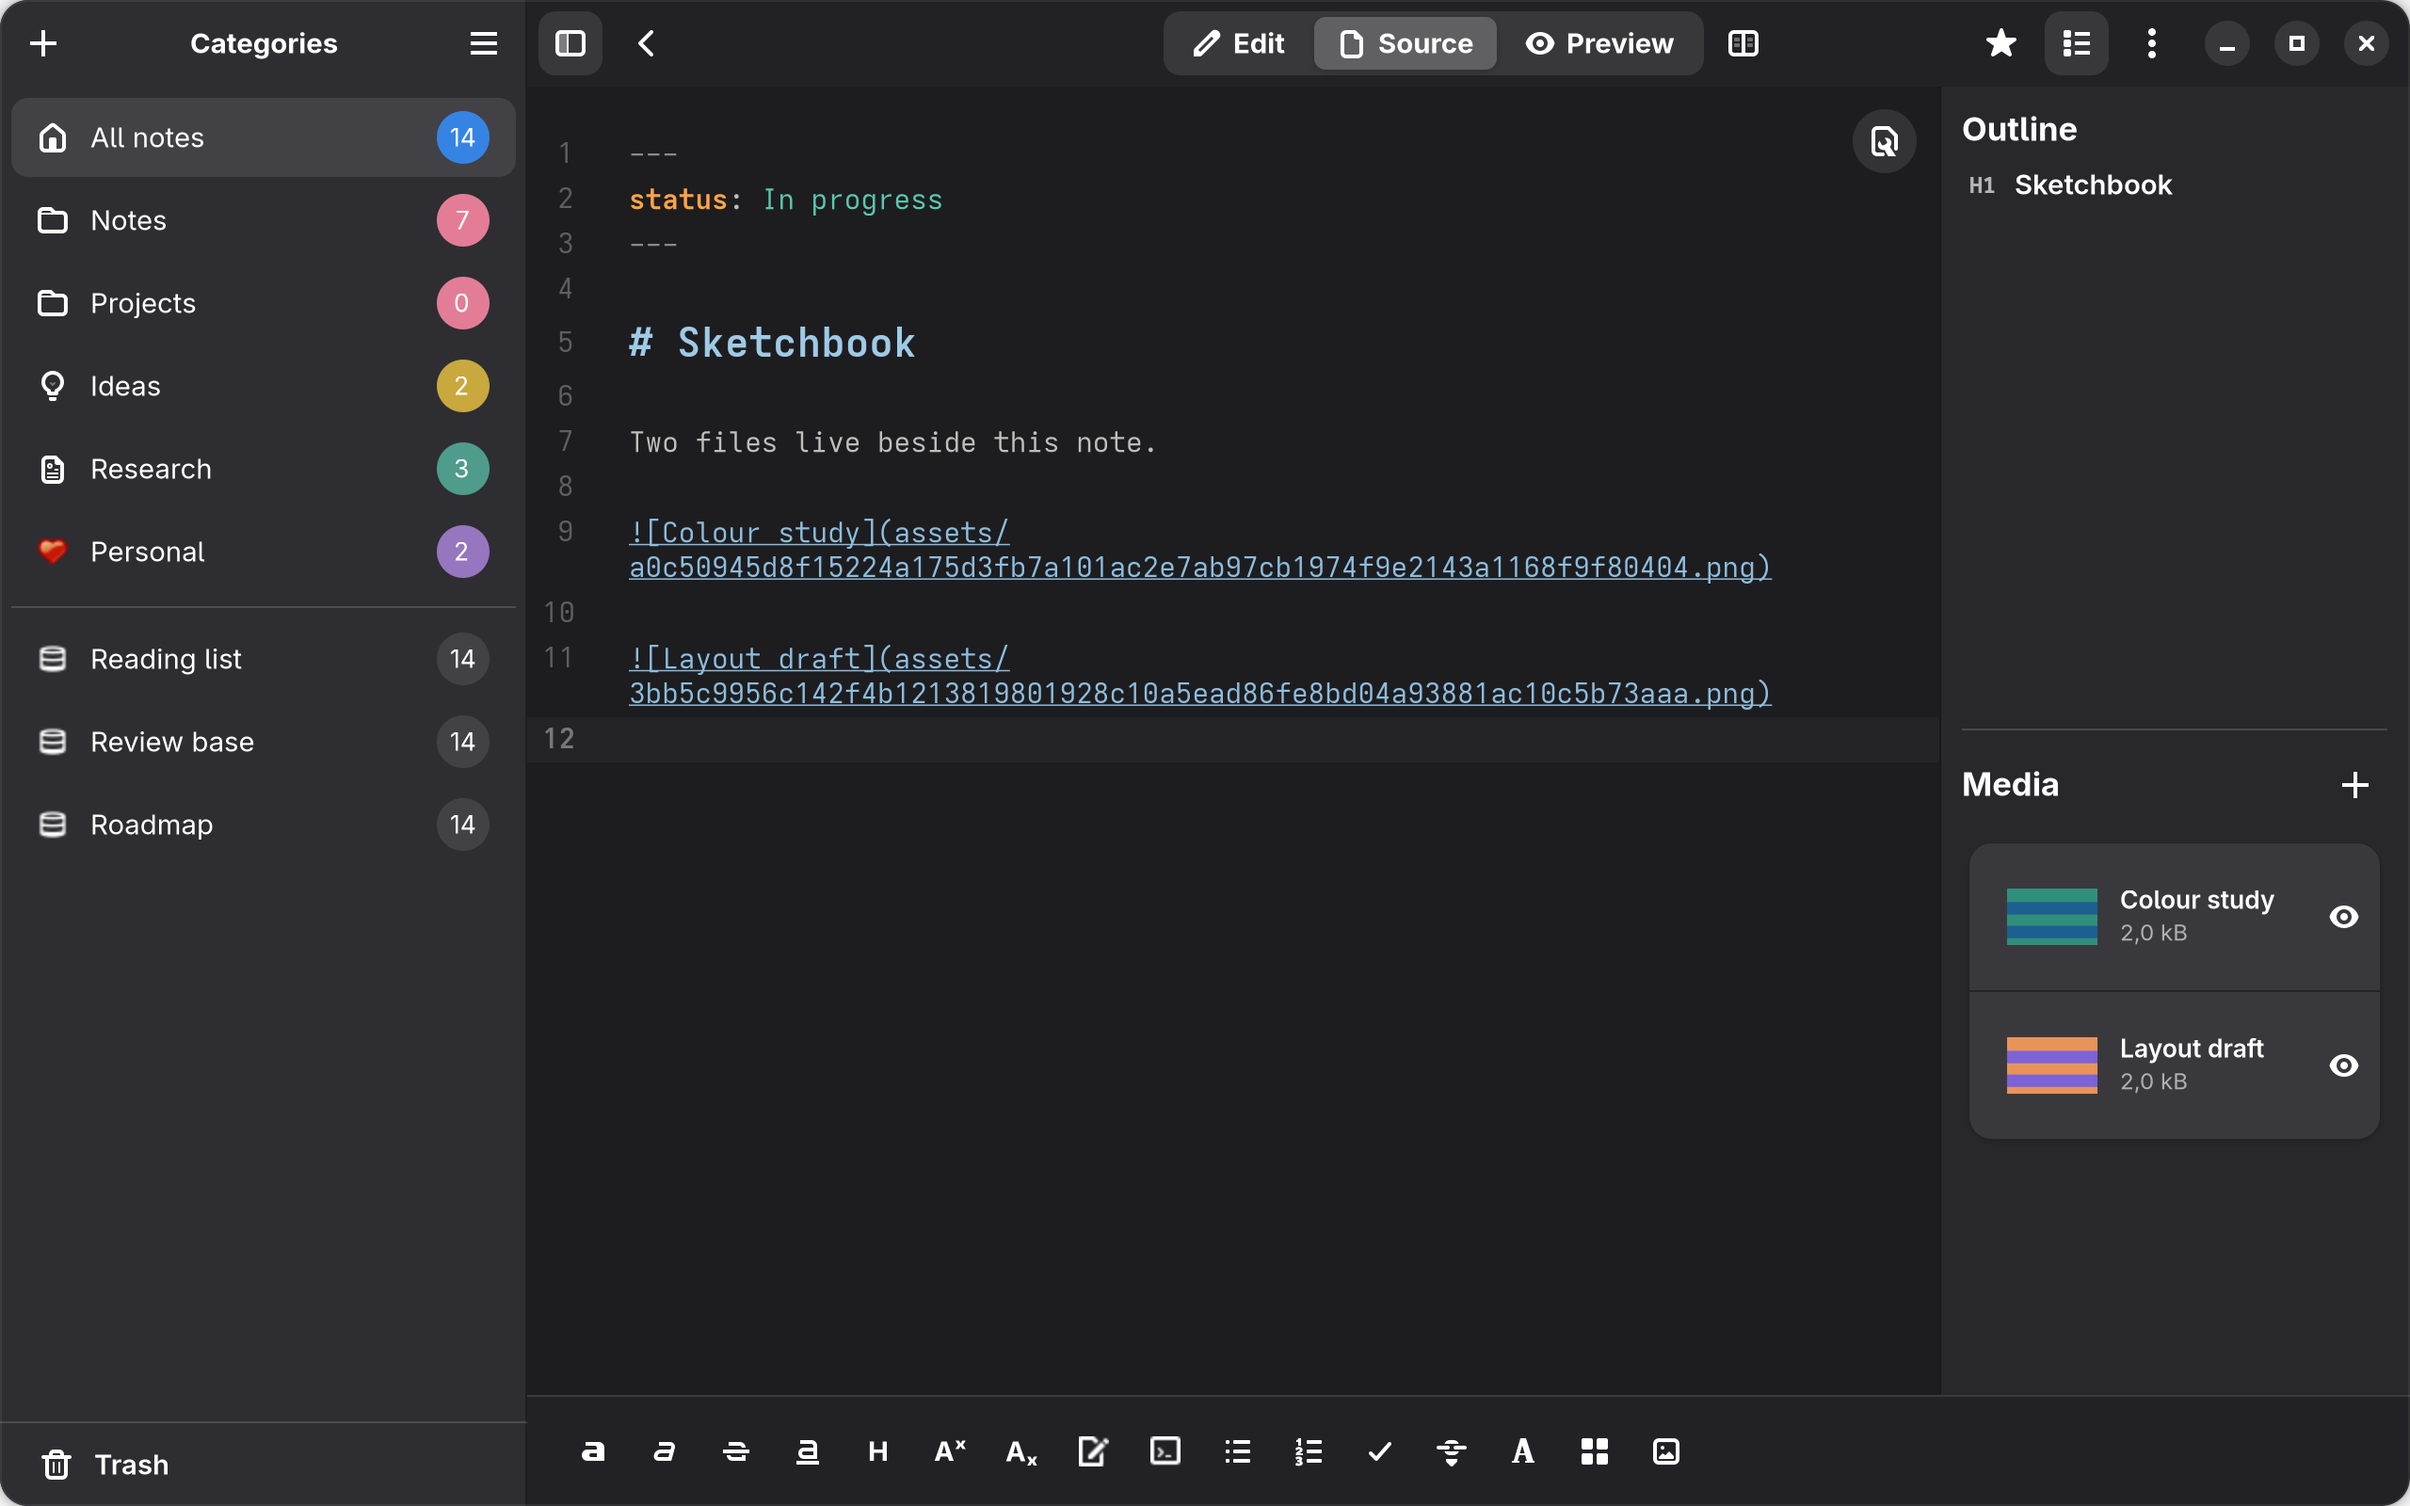
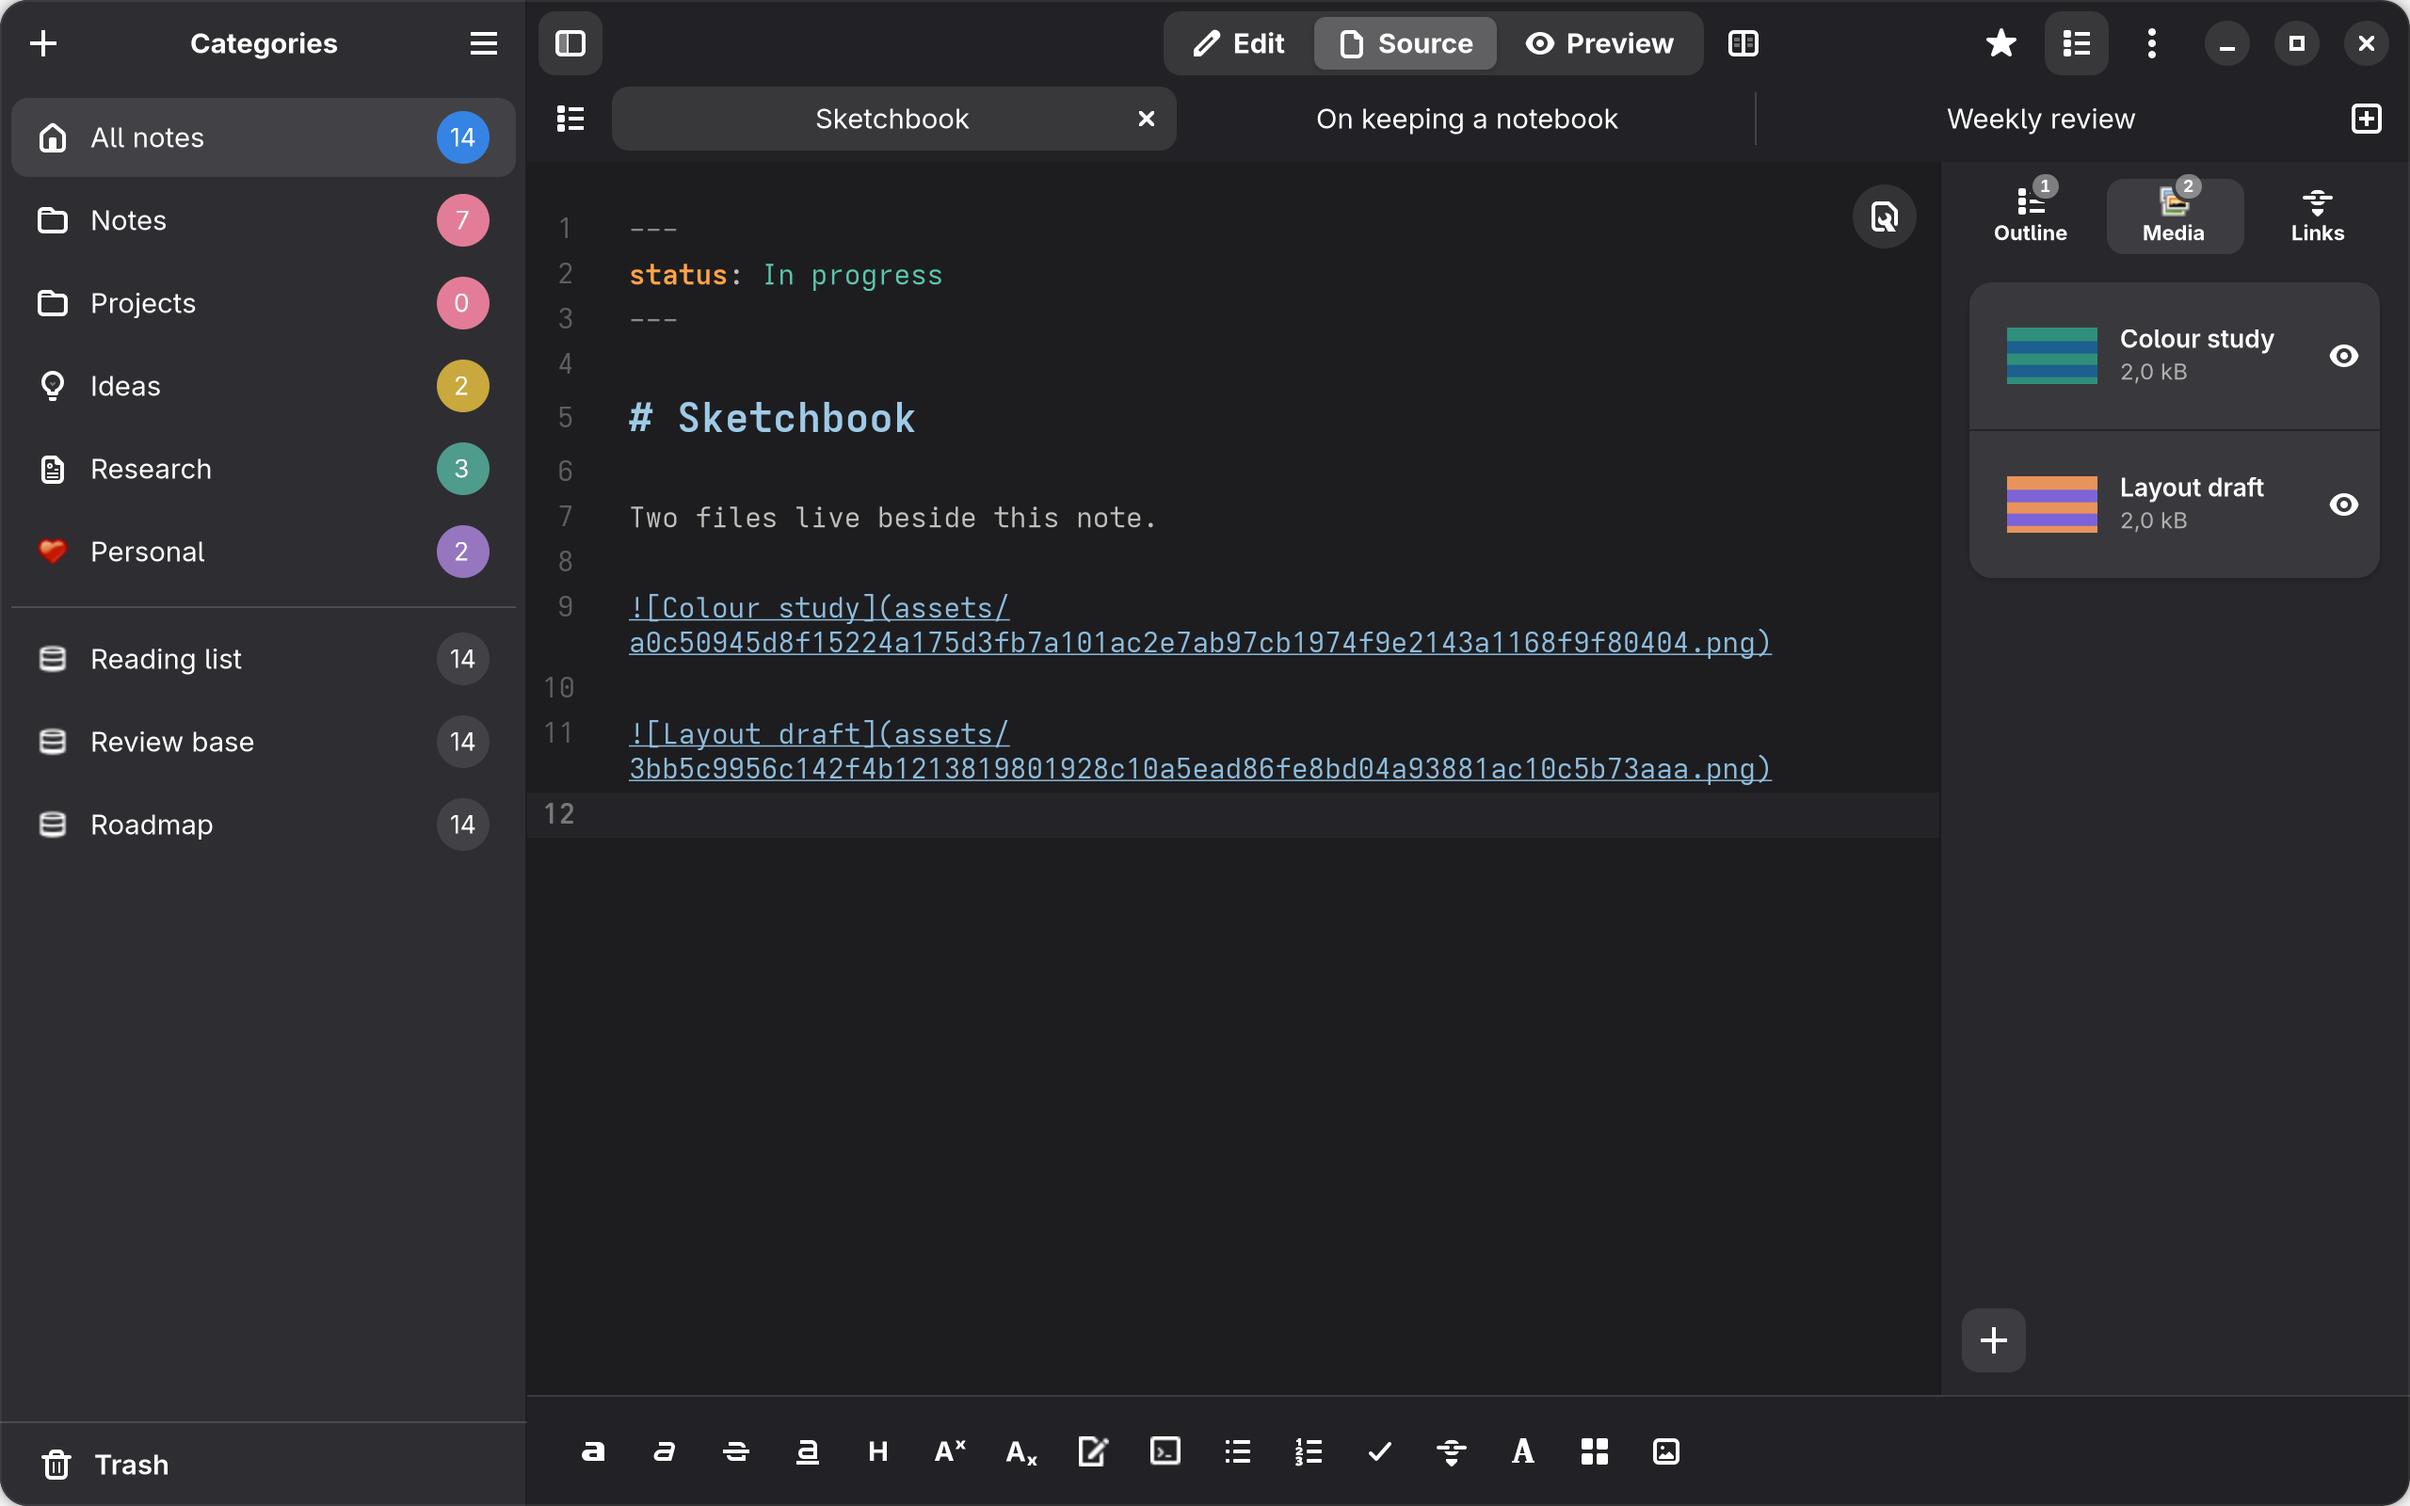
docs: refresh screenshots and showcase Base views in a carousel (#86)
* docs: refresh screenshots with workspace tabs

Regenerate the docs screenshots now that notes open in workspace tabs,
and open the media, focus, and review notes first so the note scenes show
the tab strip.

The document sidebar is a view switcher now, so open it on Media for the
media capture instead of the restored default page.

* docs: hide the editor caret in captured screenshots

A focused editor draws a blinking caret, and a capture that landed on its
visible phase baked the text cursor into the PNG (visible in the dark
editor shot). Drop keyboard focus before snapshotting the window.

* docs: showcase Base views in a Properties carousel

Capture the Base configuration form and a list-view Base, and present the
Base workflow (grid, configuration, list) as a carousel in the Properties
& Bases section.

Seed a second Base saved in its list view so the capture shows the
read-only note cards alongside the editable grid.

* docs: overlay carousel chevrons and keep the Base table primary

Replace the dot pagination with left/right chevron buttons overlaid on
the screenshot, and keep the Base table as the first slide with the
settings form last.

* docs: stop the Base carousel colliding with daisyUI's carousel

The carousel root reused daisyUI's `carousel` class, so its
`display: inline-flex; overflow-x: scroll` rules squashed the caption and
clipped the screenshot's drop shadow. Prefix the classes with
[…]

diff --git a/docs/src/data/screenshots.ts b/docs/src/data/screenshots.ts
@@ -2,6 +2,10 @@ import type { ImageMetadata } from 'astro';
 
 import agentDark from '../assets/screenshots/agent-dark.png';
 import agentLight from '../assets/screenshots/agent-light.png';
+import baseConfigDark from '../assets/screenshots/base-config-dark.png';
+import baseConfigLight from '../assets/screenshots/base-config-light.png';
+import baseListDark from '../assets/screenshots/base-list-dark.png';
+import baseListLight from '../assets/screenshots/base-list-light.png';
 import basesDark from '../assets/screenshots/bases-dark.png';
 import basesLight from '../assets/screenshots/bases-light.png';
 import editorDark from '../assets/screenshots/editor-dark.png';
@@ -86,3 +90,40 @@ export const shots: Partial<Record<ShotName, Shot>> = {
     dark: settingsDark,
   },
 };
+
+/** One labelled slide in the Properties & Bases carousel. */
+export interface BaseViewSlide {
+  label: string;
+  shot: Shot;
+}
+
+/**
+ * The Base workflow shown in the Properties & Bases section: build a saved
+ * view, choose how it presents notes, then switch between the grid and list.
+ */
+export const baseViewSlides: BaseViewSlide[] = [
+  {
+    label: 'A saved Base built from your frontmatter properties',
+    shot: {
+      alt: 'A saved Base with text, boolean, and date columns',
+      light: basesLight,
+      dark: basesDark,
+    },
+  },
+  {
+    label: 'Switch to a notes list to browse the same rows as cards',
+    shot: {
+      alt: 'A Base shown as a scrollable list of note cards',
+      light: baseListLight,
+      dark: baseListDark,
+    },
+  },
+  {
+    label: 'Choose columns, filters, sort rules, and how notes are shown',
+    shot: {
+      alt: "A Base's configuration form with its visible fields and view options",
+      light: baseConfigLight,
+      dark: baseConfigDark,
+    },
+  },
+];

diff --git a/apps/carver-gtk/src/tests/ui/screenshots.rs b/apps/carver-gtk/src/tests/ui/screenshots.rs
@@ -231,7 +231,10 @@ struct Showcase {
     review: carver_sdk::NoteId,
     media: carver_sdk::NoteId,
     focus: carver_sdk::NoteId,
+    /// The saved Base captured in its grid view.
     base: carver_sdk::BaseId,
+    /// A second Base saved in its list view.
+    list_base: carver_sdk::BaseId,
 }
 
 /// A prose note for the distraction-free writing view.
@@ -273,8 +276,12 @@ pub(super) fn capture_docs_screenshots() -> TestResult {
         // Screenshots should show the application's default document font, not
         // the deterministic font the interaction suite configures. Pinning the
         // desktop default keeps the capture identical whatever the machine's
-        // font settings are.
-        |config| config.editor.document_font = Some("Adwaita Sans 12".to_owned()),
+        // font settings are. The document sidebar is a view switcher now, so
+        // open it on Media for the media capture.
+        |config| {
+            config.editor.document_font = Some("Adwaita Sans 12".to_owned());
+            config.editor.document_sidebar_page = carver_config::DocumentSidebarPage::Media;
+        },
     )?;
     let showcase = showcase.into_inner().ok_or("showcase")?;
     capture_scenes(&fixture, &directory, &showcase)
@@ -317,11 +324,13 @@ fn seed_showcase(
         }
     }
 
+    let (base, list_base) = seed_bases(client)?;
     Ok(Showcase {
         review: review.id,
         media: seed_media_note(client, groups.notes)?,
         focus: seed_note(client, groups.notes, FOCUS_NOTE, 6)?.id,
-        base: seed_bases(client)?.id,
+        base: base.id,
+        list_base: list_base.id,
     })
 }
 
@@ -372,11 +381,11 @@ fn sample_png(base: u32, band: u32) -> Result<Vec<u8>, Box<dyn std::error::Error
     Ok(image.save_to_bufferv("png", &[])?)
 }
 
-/// Creates the saved Bases; the roadmap's text, boolean, and date columns are
-/// the ones the site shows.
+/// Creates the saved Bases the site shows: the roadmap's text, boolean, and date
+/// columns for the grid, and a Reading list saved in its list view.
 fn seed_bases(
     client: &TestLibraryClient,
-) -> Result<carver_sdk::BaseDefinition, Box<dyn std::error::Error>> {
+) -> Result<(carver_sdk::BaseDefinition, carver_sdk::BaseDefinition), Box<dyn std::error::Error>> {
     let roadmap = glib::MainContext::default().block_on(client.create_base_async(
         "Roadmap".to_owned(),
         vec![
@@ -388,15 +397,25 @@ fn seed_bases(
             carver_sdk::BaseColumn::Property(carver_sdk::PropertyPath("/due".to_owned())),
         ],
     ))?;
-    let _ = glib::MainContext::default().block_on(client.create_base_async(
-        "Reading list".to_owned(),
-        vec![
-            carver_sdk::BaseColumn::Name,
-            carver_sdk::BaseColumn::Category,
-            carver_sdk::BaseColumn::Property(carver_sdk::PropertyPath("/done".to_owned())),
-        ],
-    ))?;
-    Ok(roadmap)
+    let reading =
+        glib::MainContext::default().block_on(client.create_base_with_configuration_async(
+            "Reading list".to_owned(),
+            vec![
+                carver_sdk::BaseColumn::Name,
+                carver_sdk::BaseColumn::Category,
+                carver_sdk::BaseColumn::Updated,
+                carver_sdk::BaseColumn::Property(carver_sdk::PropertyPath("/done".to_owned())),
+                carver_sdk::BaseColumn::Property(carver_sdk::PropertyPath("/status".to_owned())),
+            ],
+            carver_sdk::BaseFilterMode::All,
+            Vec::new(),
+            vec![carver_sdk::BaseSort {
+                field: carver_sdk::BaseColumn::Updated,
+                direction: carver_sdk::BaseSortDirection::Descending,
+            }],
+            carver_sdk::BaseView::List,
+        ))?;
+    Ok((roadmap, reading))
 }
 
 /// Creates a category with an explicit icon and accent colour.
@@ -477,8 +496,11 @@ fn capture_scenes(fixture: &WindowFixture, directory: &Path, showcase: &Showcase
     search_toggle.set_active(false);
     let _ = run_main_context_until_for(Duration::from_millis(200), || false);
 
-    // Rich editor: open the review note and wait for the web surface.
-    assert!(activate_browser_note(&note_list, showcase.review));
+    // Open several notes so the note captures show the workspace tab strip, and
+    // leave the review note in front for the rich editor and source scenes.
+    open_showcase_tabs(fixture, showcase)?;
+
+    // Rich editor: the review note with its web surface.
     assert!(run_main_context_until(|| note_tab_is_active(&root)));
     let editor_stack = fixture.editor_mode_stack()?;
     editor_stack.set_visible_child_name("rich");
@@ -517,6 +539,20 @@ fn capture_scenes(fixture: &WindowFixture, directory: &Path, showcase: &Showcase
         .model()
         .is_some_and(|model| model.n_items() >= 8)));
     capture_theme_pair(fixture, directory, "bases")?;
+
+    // The Base configuration form over the same Base.
+    capture_base_configuration(fixture, directory)?;
+
+    // A second Base saved in its list view, showing the same rows as note cards.
+    assert!(sidebar_select(
+        &sidebar,
+        &format!("base-count:{}", showcase.list_base)
+    ));
+    let bases_list = widget_as::<gtk::ListView>(&root, "bases-list").ok_or("bases list")?;
+    assert!(run_main_context_until(|| bases_list
+        .model()
+        .is_some_and(|model| model.n_items() >= 8)));
+    capture_theme_pair(fixture, directory, "base-list")?;
 
     // Return to the notes browser so dialogs sit over a familiar surface.
     capture_dialogs(fixture, directory)?;
@@ -595,6 +631,33 @@ fn capture_focus(
     Ok(())
 }
 
+/// The Base configuration form over the currently selected Base.
+fn capture_base_configuration(fixture: &WindowFixture, directory: &Path) -> TestResult {
+    let root = fixture.root()?;
+    let configure =
+        widget_as::<gtk::Button>(&root, "configure-base-button").ok_or("configure base button")?;
+    assert!(run_main_context_until(|| configure.is_mapped()));
+    configure.emit_clicked();
+    assert!(run_main_context_until(|| fixture
+        .window
+        .visible_dialog()
+        .is_some()));
+    let dialog = fixture
+        .window
+        .visible_dialog()
+        .ok_or("configuration dialog")?;
+    assert!(run_main_context_until(|| {
+        widget_as::<adw::PreferencesGroup>(dialog.upcast_ref(), "base-view-section").is_some()
+    }));
+    settle();
+    capture_theme_pair(fixture, directory, "base-config")?;
+    dialog.close();
+    let _ = run_main_context_until_for(Duration::from_millis(200), || {
+        fixture.window.visible_dialog().is_none()
+    });
+    Ok(())
+}
+
 /// The agent setup and preferences dialogs, over the notes browser.
 fn capture_dialogs(fixture: &WindowFixture, directory: &Path) -> TestResult {
     let window = fixture.window.clone();
@@ -617,6 +680,19 @@ fn capture_dialogs(fixture: &WindowFixture, directory: &Path) -> TestResult {
     settle();
     capture_theme_pair(fixture, directory, "settings")?;
     preferences.close();
+    Ok(())
+}
+
+/// Opens the media, focus, and review notes as workspace tabs.
+///
+/// The default "open in a new tab" behavior keeps each note open, so the note
+/// captures show the tab strip instead of a single document. The review note is
+/// opened last so it starts in front with a fresh preview for the editor and
+/// source scenes.
+fn open_showcase_tabs(fixture: &WindowFixture, showcase: &Showcase) -> TestResult {
+    for note in [showcase.media, showcase.focus, showcase.review] {
+        assert!(open_note(fixture, note)?);
+    }
     Ok(())
 }
 
@@ -648,10 +724,14 @@ fn reset_source_scroll(fixture: &WindowFixture) -> TestResult {
 }
 
 /// Captures a full window in both themes.
+///
+/// Drops keyboard focus first: a focused editor draws a blinking caret, and a
+/// capture that lands on its visible phase would bake the cursor into the PNG.
 fn capture_theme_pair(fixture: &WindowFixture, directory: &Path, name: &str) -> TestResult {
     let window = fixture.window.clone().upcast::<gtk::Widget>();
     for (suffix, dark) in [("light", false), ("dark", true)] {
         apply_color_scheme(dark);
+        gtk::prelude::GtkWindowExt::set_focus(&fixture.window, None::<&gtk::Widget>);
         settle();
         capture_widget(&window, &directory.join(format!("{name}-{suffix}.png")))?;
     }
